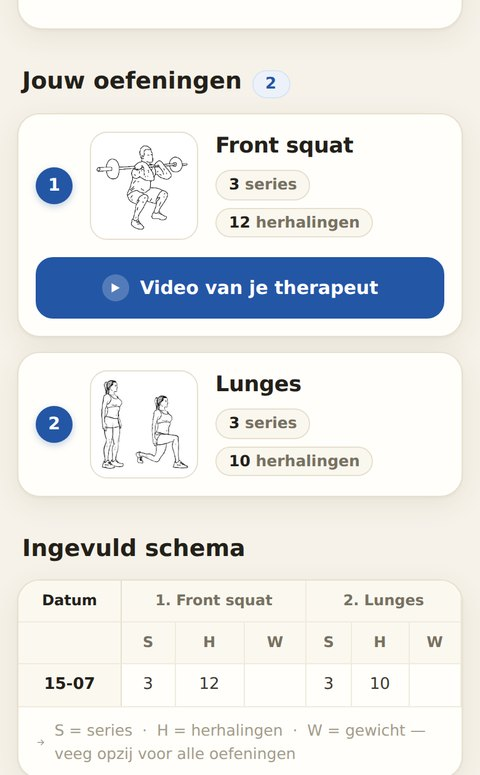
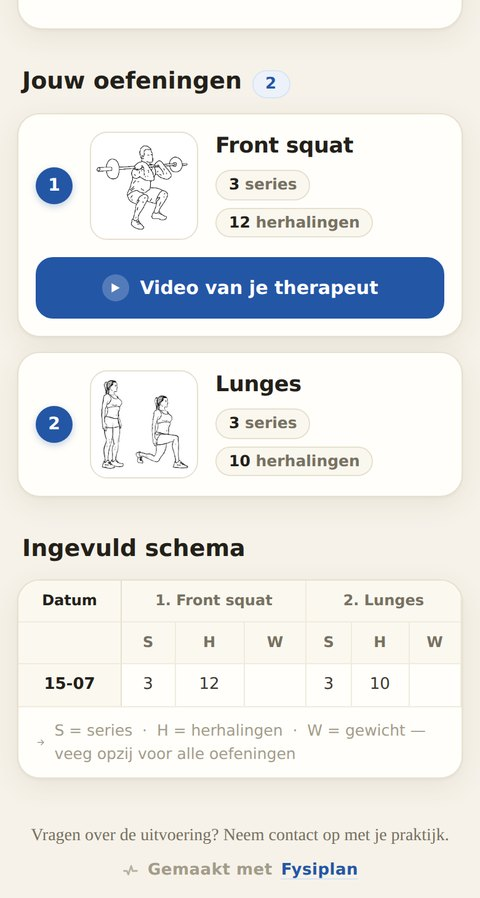
Landingspagina: telefoon op exacte iPhone-verhouding (1:1,96)
Het schermbeeld was korter dan bedoeld doordat de schermafbeelding-
uitsnede stilletjes door de viewporthoogte werd begrensd; de telefoon
oogde daardoor gedrongen (1:1,72). Met een langere uitsnede staat hij
nu op 1:1,96 — vrijwel exact een echte iPhone — en toont het scherm
meteen meer van het ingevulde schema.

Claude-Session: https://claude.ai/code/session_01QfBsE4BqDcJ6mksSxh2uPR

diff --git a/public/v2.html b/public/v2.html
@@ -252,7 +252,7 @@
             <svg width="14" height="10" viewBox="0 0 16 12" fill="#111"><path d="M8 9.6a1.7 1.7 0 1 1 0 2.4 1.7 1.7 0 0 1 0-2.4zM4.9 7.2a5 5 0 0 1 6.2 0l-1.4 1.7a2.8 2.8 0 0 0-3.4 0zM1.8 4.4a9.4 9.4 0 0 1 12.4 0l-1.5 1.7a7.2 7.2 0 0 0-9.4 0z"/></svg>
             <svg width="20" height="10" viewBox="0 0 25 12"><rect x="0.5" y="0.5" width="20" height="11" rx="3" fill="none" stroke="#111" stroke-opacity=".4"/><rect x="2" y="2" width="15" height="8" rx="1.8" fill="#111"/><path d="M22.5 4v4a2.2 2.2 0 0 0 0-4z" fill="#111" fill-opacity=".4"/></svg>
           </span></div>
-          <img class="app" src="/images/telefoon-kaart.jpg" alt="" width="480" height="775"/>
+          <img class="app" src="/images/telefoon-kaart.jpg" alt="" width="480" height="898"/>
           <div class="thuisbalk"></div>
         </div>
       </div>